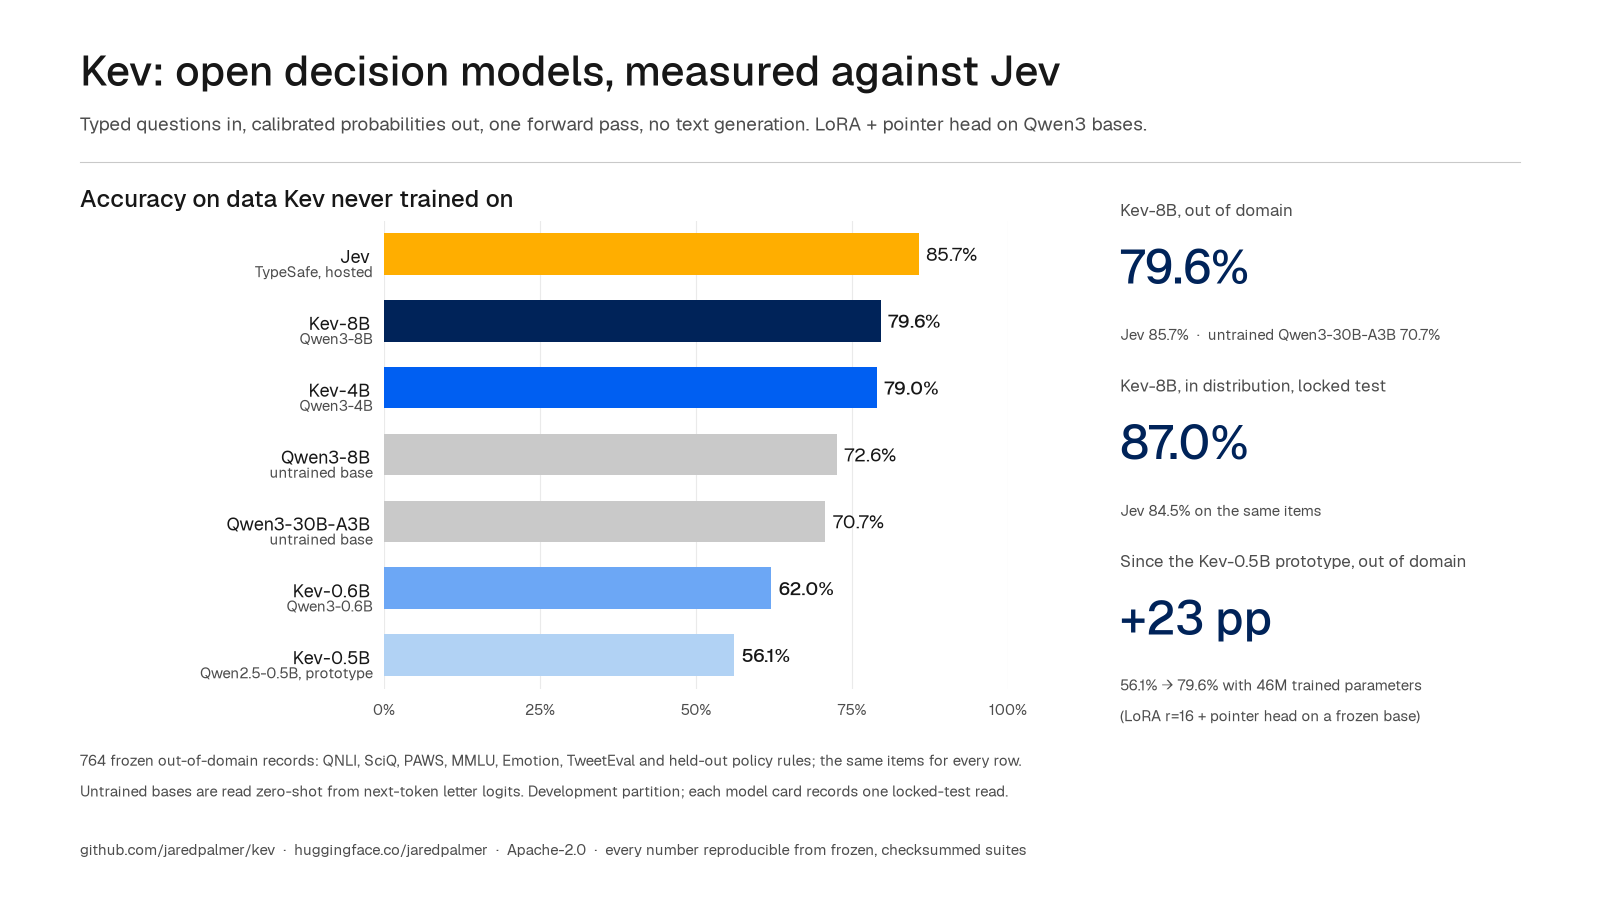
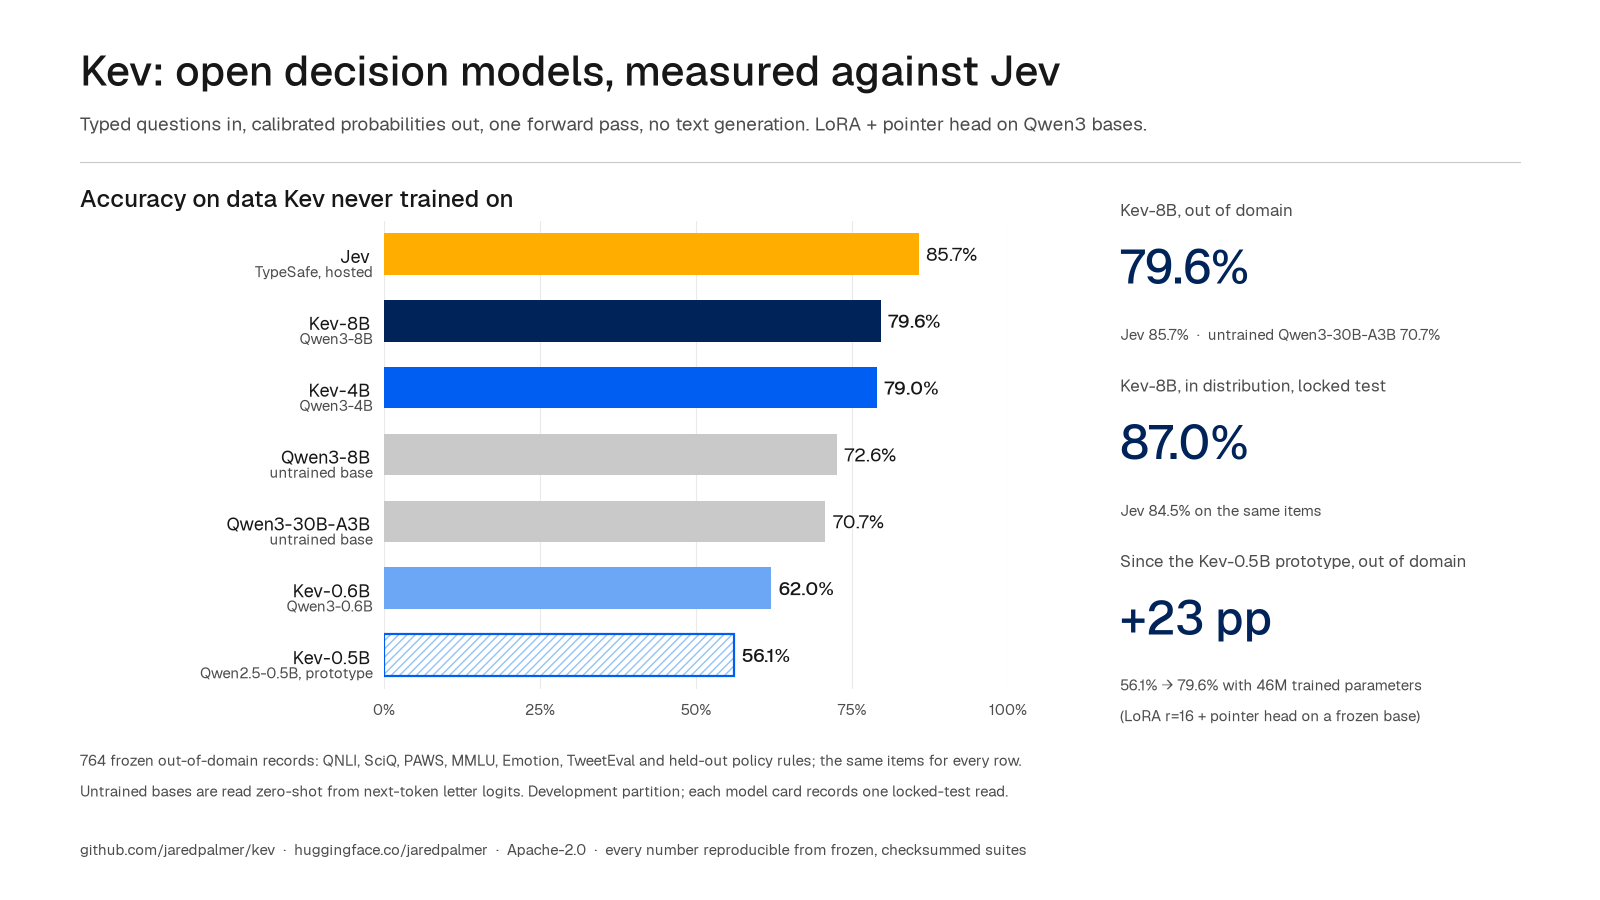
Figures: Kev-0.5B prototype drawn as outlined marker / hatched bar so it is visible and reads as superseded

Changed region(s): [[0.2188, 0.6844, 0.4688, 0.7778]]

diff --git a/scripts/plot_family.py b/scripts/plot_family.py
@@ -11,7 +11,7 @@ from pathlib import Path
 sys.path.insert(0, str(Path(__file__).resolve().parent))
 import matplotlib.pyplot as plt
 import numpy as np
-from chartstyle import GRID, JEV, KEV, RULE, TEXT, TEXT2, body, display, heading, rule, strip, use_style
+from chartstyle import GRID, HOLLOW, JEV, KEV, RULE, TEXT, TEXT2, body, display, heading, rule, strip, use_style
 
 ROOT = Path(__file__).resolve().parents[1]
 TASKS = [("sciq", "SciQ"), ("qnli", "QNLI"), ("contrastive_authorization", "Policy: authorization"), ("composition_held_and_or", "Rule: (A or B) and C"),
@@ -53,7 +53,8 @@ def main():
         lo, hi = min(vals.values()), max(vals.values())
         ax.plot([lo, hi], [yi, yi], color=GRID, lw=2.5, zorder=1, solid_capstyle="round")
         for n, v in vals.items():
-            ax.scatter([v], [yi], s=95, color=JEV if n == "Jev" else KEV[n], zorder=3, edgecolor="white", linewidth=1.2)
+            if n in HOLLOW: ax.scatter([v], [yi], s=95, facecolor="white", edgecolor=KEV["kev-4b"], linewidth=1.8, zorder=3)
+            else: ax.scatter([v], [yi], s=95, color=JEV if n == "Jev" else KEV[n], zorder=3, edgecolor="white", linewidth=1.2)
         # direct labels: the best Kev and Jev, offset vertically so they never overlap
         best = max((n for n, _ in MODELS if n != "kev-0.5b"), key=lambda n: vals[n])
         ax.annotate(f"{vals[best]:.0f}", (vals[best], yi), xytext=(0, 9), textcoords="offset points", ha="center", fontsize=9.5, color=KEV[best], weight="medium")
@@ -63,8 +64,9 @@ def main():
     ax.grid(axis="x", color=GRID, lw=.8, zorder=0); ax.tick_params(length=0); strip(ax)
     # key as direct text, once
     kx = .27
-    for i, (n, c) in enumerate([("Jev", JEV), ("kev-8b", KEV["kev-8b"]), ("kev-4b", KEV["kev-4b"]), ("kev-0.6b", KEV["kev-0.6b"]), ("kev-0.5b prototype", KEV["kev-0.5b"])]):
-        fig.text(kx + .082 * i, .835, "●", fontsize=13, color=c, ha="left", va="baseline"); fig.text(kx + .082 * i + .014, .835, display(n), fontsize=11.5, color=TEXT, ha="left", va="baseline")
+    for i, (n, c) in enumerate([("Jev", JEV), ("kev-8b", KEV["kev-8b"]), ("kev-4b", KEV["kev-4b"]), ("kev-0.6b", KEV["kev-0.6b"]), ("kev-0.5b prototype", KEV["kev-4b"])]):
+        fig.text(kx + .082 * i, .835, "○" if "0.5b" in n else "●", fontsize=13, color=c, ha="left", va="baseline", weight="bold" if "0.5b" in n else "regular")
+        fig.text(kx + .082 * i + .014, .835, display(n), fontsize=11.5, color=TEXT, ha="left", va="baseline")
     body(fig, .05, .125, "Notice: on classification-shaped sources and trained rule families the 4B and 8B are within a few points of Jev or above it.\n"
          "The gap is concentrated in knowledge (MMLU), day-precision date arithmetic (deadline) and noisy-label emotion.\n"
          "Sources: QNLI, SciQ, TweetEval, PAWS, MMLU, Emotion; the policy families and rule structures shown were never trained.", size=11, va="top")

diff --git a/scripts/plot_tweet.py b/scripts/plot_tweet.py
@@ -10,7 +10,7 @@ from pathlib import Path
 
 sys.path.insert(0, str(Path(__file__).resolve().parent))
 import matplotlib.pyplot as plt
-from chartstyle import JEV, KEV, NEUTRAL, TEXT, TEXT2, body, display, heading, hbars, rule, stat, use_style
+from chartstyle import HOLLOW, JEV, KEV, NEUTRAL, TEXT, TEXT2, body, display, heading, hbars, rule, stat, use_style
 
 ROOT = Path(__file__).resolve().parents[1]
 MODELS = [("kev-8b", "Qwen3-8B", "runs/v7-final/00-trial-0/result.json"),
@@ -45,6 +45,8 @@ def main():
     heading(fig, .05, .77, "Accuracy on data Kev never trained on", size=17)
     hbars(ax, [display(r[0]) for r in rows], [r[2] for r in rows], [r[3] for r in rows], xlim=(0, 100), fmt="{:.1f}%",
           emphasize=[i for i, r in enumerate(rows) if r[0].startswith("kev")], sublabels=[r[1] for r in rows], ticks=range(0, 101, 25), label_size=13, value_size=14)
+    for bar, r in zip(ax.patches, rows):                                   # the prototype: outlined bar in the family hue
+        if r[0] in HOLLOW: bar.set_facecolor("white"); bar.set_edgecolor(KEV["kev-4b"]); bar.set_linewidth(1.6); bar.set_hatch("////"); bar._hatch_color = __import__("matplotlib").colors.to_rgba(KEV["kev-0.5b"])
     body(fig, .05, .115, "764 frozen out-of-domain records: QNLI, SciQ, PAWS, MMLU, Emotion, TweetEval and held-out policy rules; the same items for every row.\n"
          "Untrained bases are read zero-shot from next-token letter logits. Development partition; each model card records one locked-test read.", size=11)
 

diff --git a/scripts/chartstyle.py b/scripts/chartstyle.py
@@ -40,7 +40,8 @@ RED = {900: oklch_to_hex(0.5499, 0.232, 25.29), 700: oklch_to_hex(0.6256, 0.2524
 
 TEXT, TEXT2, RULE, GRID = GRAY[1000], GRAY[900], GRAY[500], GRAY[400]
 # series roles: the Kev family is one hue stepped by size; the hosted reference is a second hue; untrained bases neutral
-KEV = {"kev-8b": BLUE[1000], "kev-4b": BLUE[900], "kev-0.6b": oklch_to_hex(0.72, 0.13, 256), "kev-0.5b": oklch_to_hex(0.85, 0.06, 250)}
+KEV = {"kev-8b": BLUE[1000], "kev-4b": BLUE[900], "kev-0.6b": oklch_to_hex(0.72, 0.13, 256), "kev-0.5b": oklch_to_hex(0.80, 0.09, 252)}
+HOLLOW = {"kev-0.5b"}   # the superseded prototype is drawn as an outlined marker / hatched bar so it reads as "older", not as a fourth size
 JEV = AMBER[700]
 NEUTRAL = GRAY[500]
 
